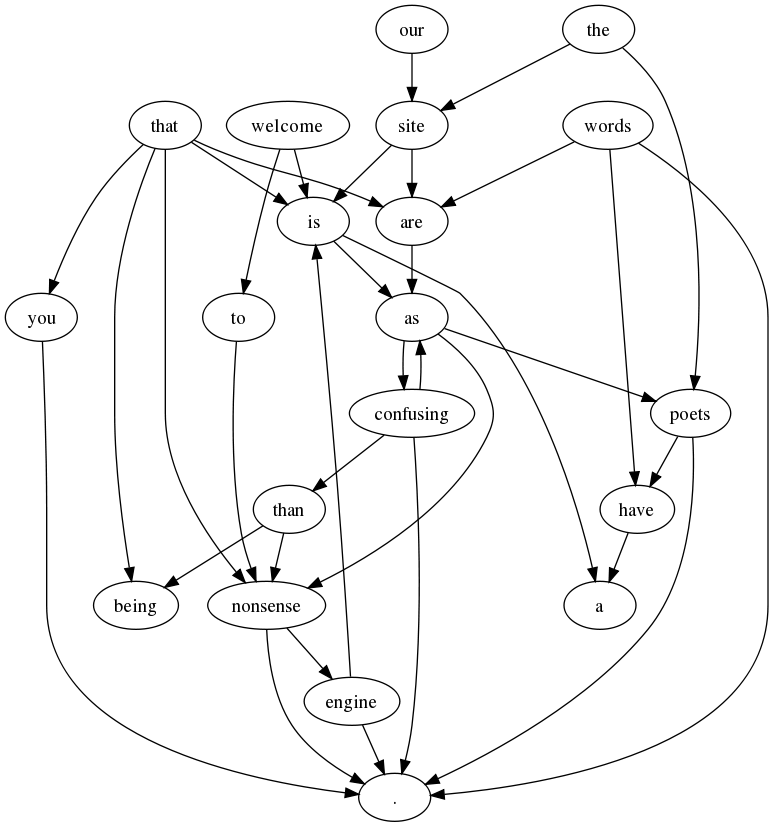
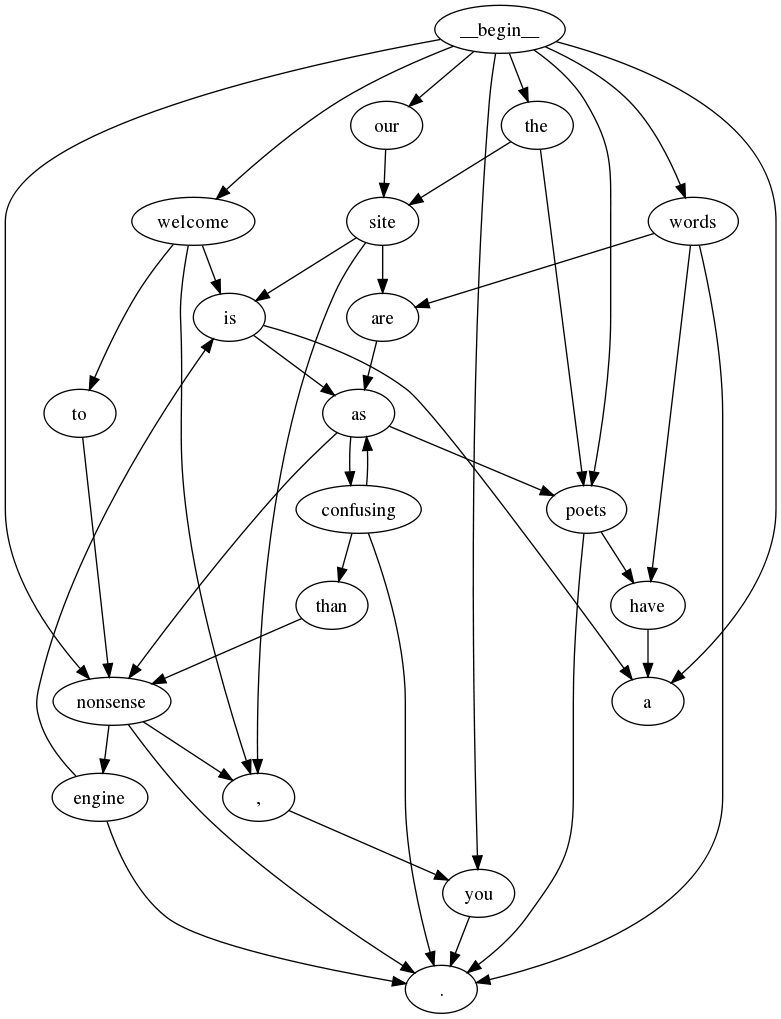
Progress on generating simplified graphs.

diff --git a/lib/custom/graph_generator.rb b/lib/custom/graph_generator.rb
@@ -1,11 +1,7 @@
 class GraphGenerator
   attr_reader :lang
 
-  def initialize(lang)
-    @lang = lang
-  end
-
-  def gen(file_name, lang = @lang)
+  def self.gen(file_name, lang)
     digraph do
       lang.words(true).each do |w_id|
         word = lang.fetch_word(w_id)
@@ -24,23 +20,57 @@ class GraphGenerator
     end
   end
 
-  def gen_simplified(file_name, limit = 20, lang = @lang)
-    sorted_hash  = lang.sorted_words[0...limit]
-    sorted_words = sorted_hash.collect{ |h| h[:word].to_s }
+  def self.gen_simplified(file_name, lang, target = 10)
+    words = build_simplified_words(lang, target)
 
     digraph do
-      sorted_hash.each do |h|
-        m_word = lang.fetch_word(h[:word])
-        word   = h[:word].to_s
-        m_word.sorted_children[0...limit].each do |h2|
-          child = h2[:word].to_s
-          if sorted_words.include? child
-            edge word, child
+
+      words.values.each do |mw|
+        mw.children.keys.each do |child|
+          if words[child]
+            parent = mw.identifier.to_s
+            puts "#{parent}, #{child.to_s}"
+            edge parent, child.to_s
           end
         end
       end
 
       save file_name, 'png'
+
     end
+  end
+
+  def self.build_simplified_words(lang, target)
+    Hash.new.tap do |found_words|
+      seed_word   = lang.fetch_word(:__begin__)
+
+      okay_words  = {}
+
+      handle_found_word( seed_word, found_words, okay_words )
+
+      while found_words.length < target
+        new_word = find_next_word(lang, found_words, okay_words)
+        handle_found_word(new_word, found_words, okay_words)
+      end
+    end
+  end
+
+  def self.handle_found_word(word, found_words, okay_words)
+    found_words[word.identifier] = word
+    word.children.keys.each do |child|
+      okay_words[child] = true
+    end
+  end
+
+  def self.find_next_word(lang, found_words, okay_words)
+    lang.sorted_words.each do |mw|
+      next if found_words[mw.identifier]
+      next unless okay_words[mw.identifier]
+
+      return mw
+    end
+
+    found_words.keys.each { |fw| puts fw.to_s }
+    raise "Fatal: No acceptable word found"
   end
 end

diff --git a/lib/custom/markov_language.rb b/lib/custom/markov_language.rb
@@ -29,8 +29,7 @@ class MarkovLanguage
   end
 
   def sorted_words
-    pairs = @words.collect {|ident, w| {word: ident, occurances: w.count} }
-    pairs.sort{|a, b| b[:occurances] <=> a[:occurances] }
+    @words.values.sort_by(&:count).reverse
   end
 
   def num_words
